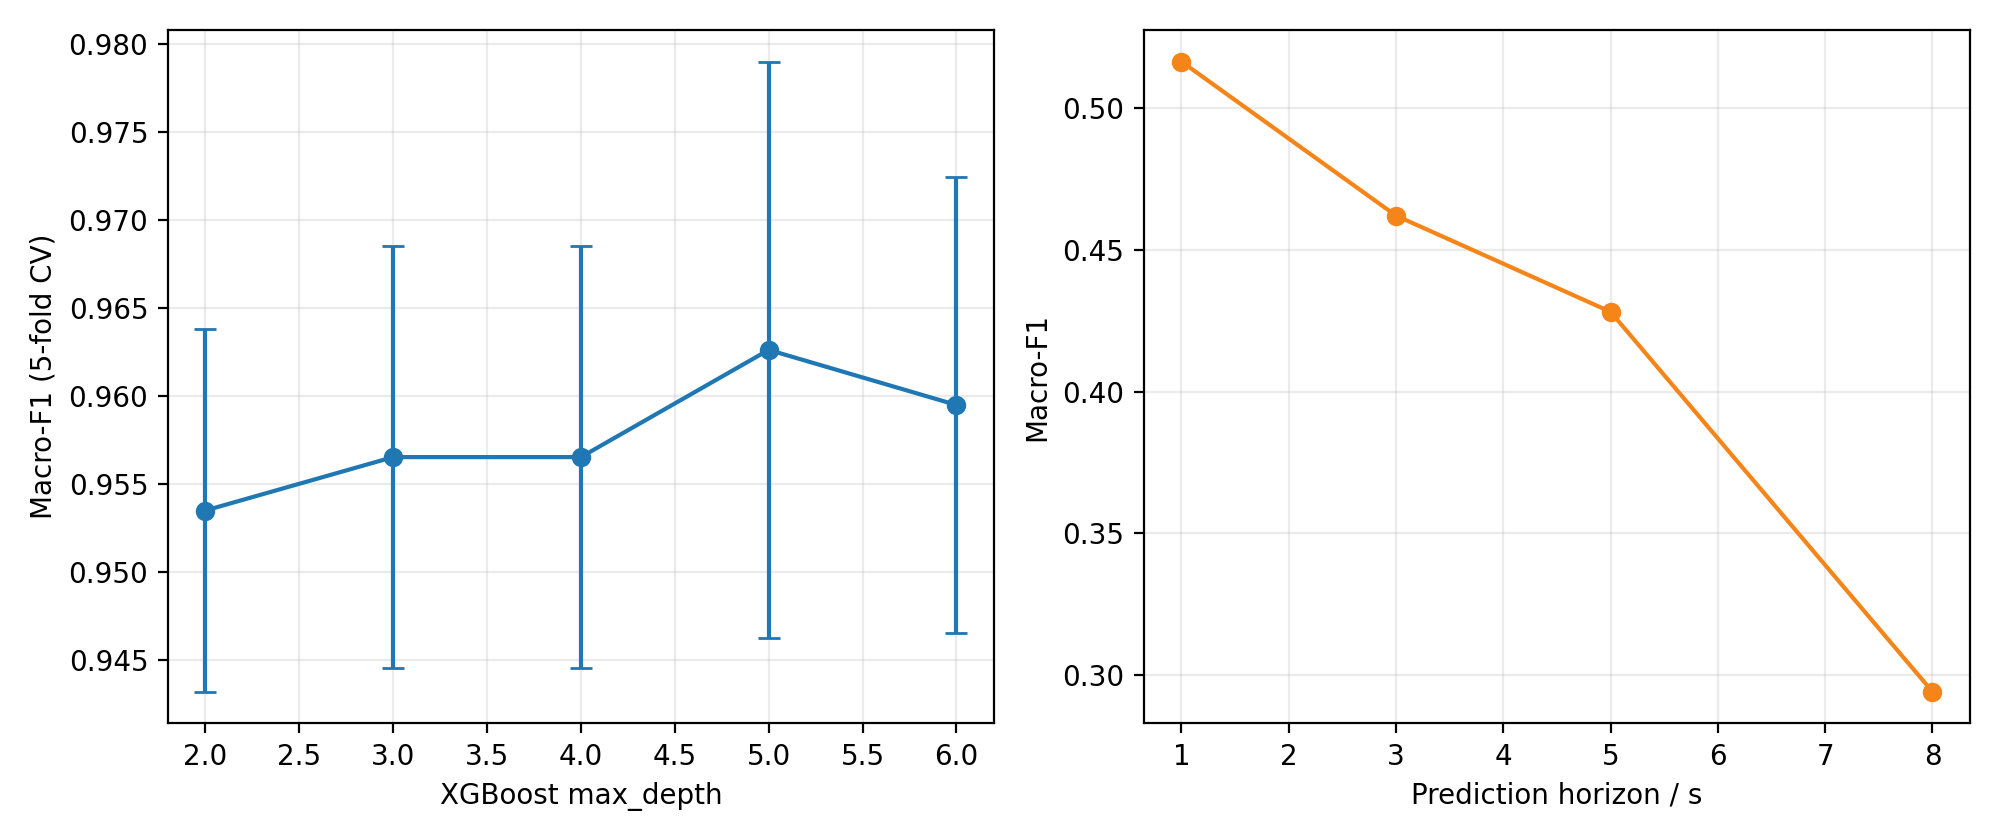
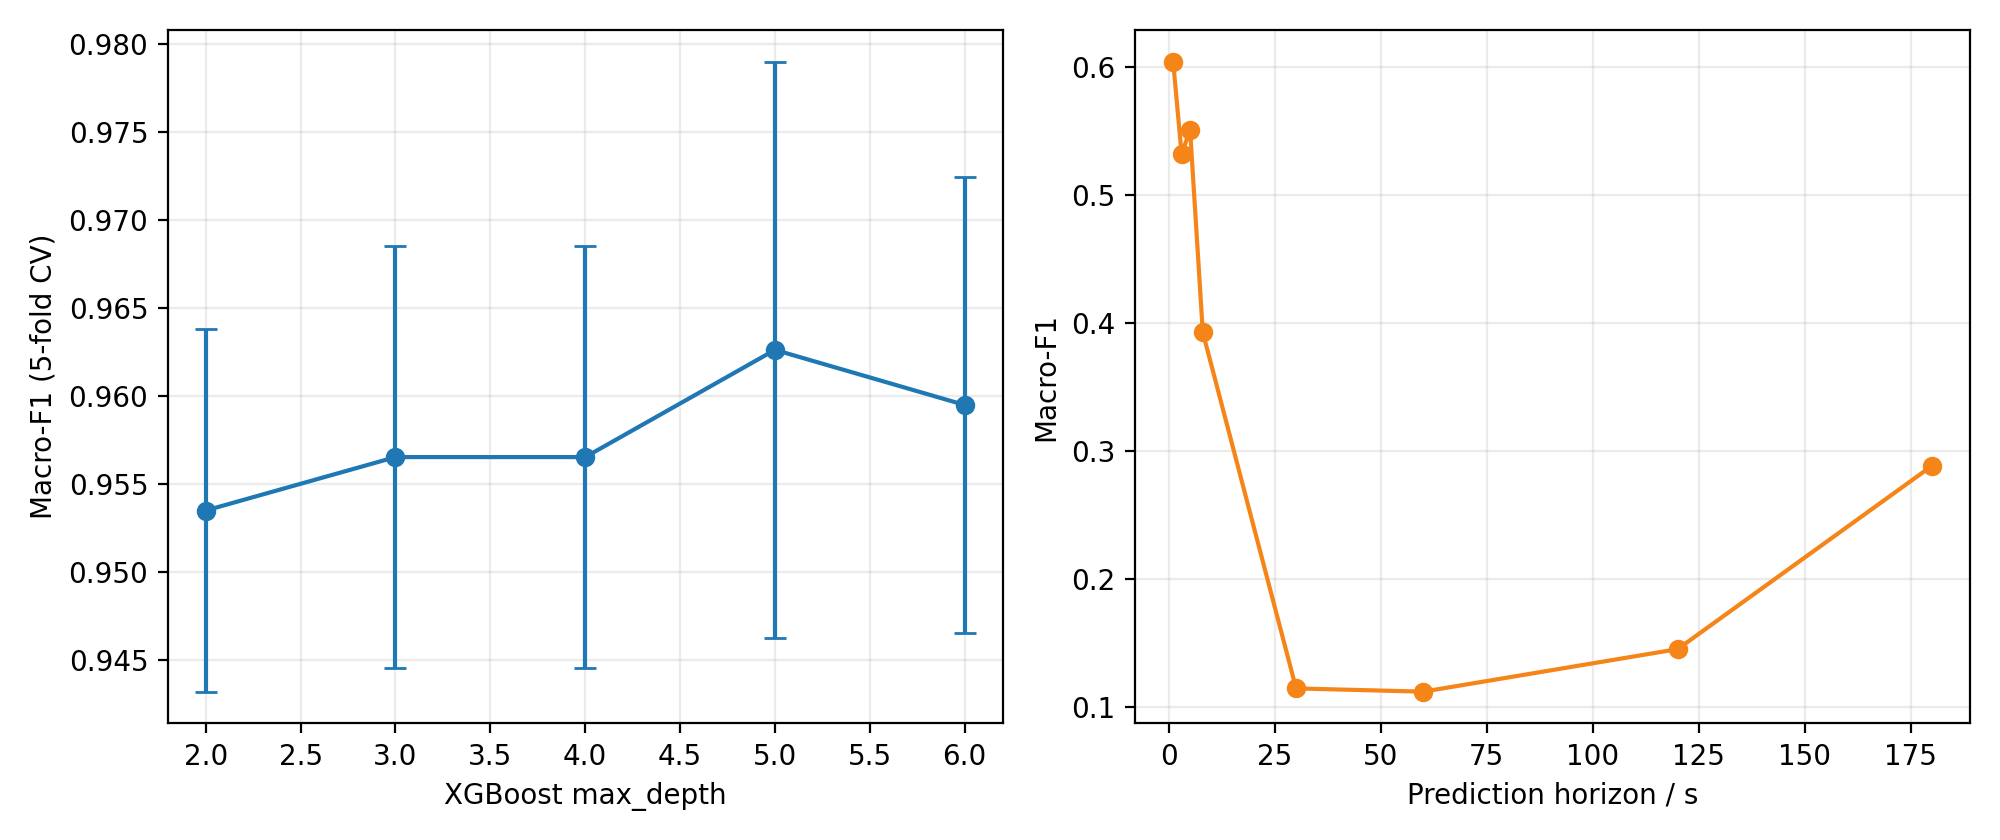
Add long-horizon prediction analysis

diff --git a/src/ute_pipeline/reporting.py b/src/ute_pipeline/reporting.py
@@ -519,8 +519,9 @@ def plot_sensitivity(results: dict, out_path: Path) -> None:
     depths = [item["max_depth"] for item in results["max_depth"]]
     f1_depth = [item["metrics"]["f1_macro"] for item in results["max_depth"]]
     f1_depth_std = [item["metrics"].get("f1_macro_std", 0.0) for item in results["max_depth"]]
-    horizons = [item["horizon_seconds"] for item in results["prediction_horizon"]]
-    f1_horizon = [item["metrics"]["f1_macro"] for item in results["prediction_horizon"]]
+    completed_horizons = [item for item in results["prediction_horizon"] if item.get("status", "completed") == "completed" and "metrics" in item]
+    horizons = [item["horizon_seconds"] for item in completed_horizons]
+    f1_horizon = [item["metrics"]["f1_macro"] for item in completed_horizons]
     fig, axes = plt.subplots(1, 2, figsize=(10, 4.2))
     axes[0].errorbar(depths, f1_depth, yerr=f1_depth_std, marker="o", capsize=4)
     axes[0].set_xlabel("XGBoost max_depth")
@@ -1050,7 +1051,7 @@ def write_report(root: Path) -> None:
         "",
         "主要评价采用分层随机划分（stratified split），确保训练集和测试集各类别比例一致。消融实验和参数敏感性分析使用 5 折分层交叉验证（stratified 5-fold CV），以交叉验证均值作为报告指标。",
         "",
-        "为对齐近五年文献中的方法对比，本节不只比较项目内部模型，还补充交通状态识别与短时交通预测文献中常见的基线。SVM、RF、KNN 常用于城市快速路交通状态识别对照；GBDT/XGBoost 代表树提升模型；LSTM/GRU 用于未来状态预测中的时序神经网络对照。状态识别模型使用同一份 XAM-N-6 四类状态标签、同一训练/测试划分和同一评价指标；未来预测模型统一预测 3 秒后的交通状态。",
+        "为对齐近五年文献中的方法对比，本节不只比较项目内部模型，还补充交通状态识别与短时交通预测文献中常见的基线。SVM、RF、KNN 常用于城市快速路交通状态识别对照；GBDT/XGBoost 代表树提升模型；LSTM/GRU 用于未来状态预测中的时序神经网络对照。状态识别模型使用同一份 XAM-N-6 四类状态标签、同一训练/测试划分和同一评价指标；未来预测主实验统一预测 3 秒后的交通状态，长时预测作为参数敏感性补充。",
         "",
         "| 对比类别 | 本报告实现 | 近五年文献中的作用 |",
         "|---|---|---|",
@@ -1067,6 +1068,7 @@ def write_report(root: Path) -> None:
         "| CNN/LSTM 类时序预测 | Reza 等 2022 年交通状态预测研究采用 1D-CNN 与 LSTM，并讨论 LSTM/GRU 在交通状态预测中的作用 | 在未来状态预测中加入 LSTM-future，并保留 XGBoost 静态/趋势通道 |",
         "| 深度学习交通拥堵预测 | 2023 年交通拥堵预测研究总结了神经网络、SVM 与深度学习方法在拥堵预测中的应用 | 把 XGBoost、SVM、LSTM/GRU 作为未来状态预测和识别任务的对照组 |",
         "| LSTM / GRU 记忆型循环网络 | 2023 年交通量预测研究直接比较 LSTM 与 GRU 两类记忆型循环网络 | 在未来状态预测中新增 GRU-future，与 LSTM-future 同口径比较 |",
+        "| 长时交通流/速度预测 | 近年 PeMS/METR-LA 交通预测论文通常报告 15/30/60 分钟，少数工作扩展到 120 分钟 | 本数据主场景 XAM-N-6 只有约 5.5 分钟，因此只补充 30/60/120/180/300 秒可行性，不把 15/30 分钟写成主实验 |",
         "",
         "参考文献链接：",
         "",
@@ -1074,6 +1076,17 @@ def write_report(root: Path) -> None:
         "- Reza et al., Traffic State Prediction Using One-Dimensional Convolution Neural Networks and Long Short-Term Memory, Applied Sciences, 2022, <https://doi.org/10.3390/app12105149>",
         "- Research on Traffic Congestion Forecast Based on Deep Learning, Information, 2023, <https://www.mdpi.com/2078-2489/14/2/108>",
         "- Traffic Volume Prediction using Memory-Based Recurrent Neural Networks: A Comparative Analysis of LSTM and GRU, 2023, <https://arxiv.org/abs/2303.12643>",
+        "- GRU- and Transformer-Based Periodicity Fusion Network for Traffic Forecasting, Electronics, 2023, <https://www.mdpi.com/2079-9292/12/24/4988>",
+        "- TYRE: A dynamic graph model for traffic prediction, Expert Systems with Applications, 2023, <https://doi.org/10.1016/j.eswa.2022.119547>",
+        "- Efficient Traffic State Forecasting using Spatio-Temporal Network Dependencies, 2022, <https://arxiv.org/abs/2211.03033>",
+        "",
+        "长时预测文献与本项目数据的对应关系如下。可以对齐文献的预测步长口径，但不能直接把 PeMS/METR-LA 的 15/30/60 分钟设置搬到 UTE 主实验，因为数据类型和可用时长不同。",
+        "",
+        "| 文献数据集/任务 | 常见预测步长 | 数据特点 | 与本项目的处理方式 |",
+        "|---|---:|---|---|",
+        "| PeMS / PeMSD4 / PeMSD8 交通流或速度预测 | 15/30/60 分钟，部分到 120 分钟 | 固定检测器长时间序列，通常 5 分钟聚合，持续数周到数月 | 作为长时预测相关工作引用，不直接替代 UTE OBB 实验 |",
+        "| METR-LA / PEMS-BAY 交通速度预测 | 15/30/60 分钟 | 路网传感器序列，关注速度/流量连续值 | 可作为后续扩展数据集；当前没有 pixel/车辆框，无法验证 HBB→OBB 与 HF-GO |",
+        "| UTE XAM-N-6 四类状态预测 | 主实验 3 秒；补充 30/60/120/180/300 秒 | 无人机 pixel 轨迹与车辆框，主场景约 5.5 分钟 | 保留 OBB/HF-GO 创新链路，最长可靠展望期受视频长度限制 |",
         "",
         metric_table(exp["classification"]),
         "",
@@ -1152,6 +1165,8 @@ def write_report(root: Path) -> None:
             "## 1.5 未来状态预测",
             "",
             f"预测步长：{exp['prediction']['horizon_seconds']:.1f} 秒",
+            "",
+            "这里的“未来状态预测”默认是短时状态预测，即预测 3 秒后的四类交通状态。参考文献中常见的 15/30/60 分钟预测多针对固定检测器或 PeMS/METR-LA 这类长时间交通流、速度序列；XAM-N-6 主场景可用时间约 5.5 分钟，无法支撑 15/30 分钟标签。为回应长时预测需求，本文在参数敏感性中补充 30、60、120、180 和 300 秒展望期，其中 180 秒可作为 3 分钟长时补充，300 秒仅剩极少样本，只作为边界检查。",
             "",
             metric_table({k: v for k, v in exp["prediction"].items() if isinstance(v, dict) and "metrics" in v}),
             "",
@@ -1266,12 +1281,20 @@ def write_report(root: Path) -> None:
         std_str = f" ± {m.get('f1_macro_std', 0):.4f}" if m.get("f1_macro_std", 0) > 0 else ""
         lines.append(f"| XGBoost max_depth | {item['max_depth']} | {m['accuracy']:.4f} | {m['f1_macro']:.4f}{std_str} |")
     for item in exp["parameter_sensitivity"]["prediction_horizon"]:
+        if item.get("status", "completed") != "completed" or "metrics" not in item:
+            lines.append(f"| prediction horizon(s) | {item['horizon_seconds']:.1f} | - | skipped: {item.get('reason', 'insufficient data')} |")
+            continue
         m = item["metrics"]
-        lines.append(f"| prediction horizon(s) | {item['horizon_seconds']:.1f} | {m['accuracy']:.4f} | {m['f1_macro']:.4f} |")
+        sample_note = f"（train/test={item.get('train_windows', '-')}/{item.get('test_windows', '-')}）"
+        lines.append(f"| prediction horizon(s) | {item['horizon_seconds']:.1f} | {m['accuracy']:.4f} | {m['f1_macro']:.4f} {sample_note} |")
     lines.extend(
         [
             "",
             "![参数敏感性](../outputs/figures/parameter_sensitivity.png)",
+            "",
+            "预测步长敏感性采用同一条 XAM-N-6 时间序列重新构造目标标签。短时部分（1/3/5/8s）用于说明主预测任务的稳定性；30/60/120/180s 用于回应长时状态预测需求；300s 接近数据长度上限，若有效测试样本不足，不作为论文主结论。与常见 15/30/60 分钟交通流预测不同，这里预测的是无人机片段内的四类状态，能够报告的最长可靠展望期受原始视频时长限制。",
+            "",
+            "如果导师要求与长时交通预测论文完全同口径对比，建议把它作为扩展实验单独设计：数据集选 PeMSD4/PeMSD8、METR-LA 或 PEMS-BAY，预测对象改为速度/流量连续值，展望期设为 15/30/60 分钟，并加入 HA、ARIMA、SVR、LSTM、GRU、DCRNN、STGCN、GraphWaveNet、TYRE 等文献基线。这个扩展能对齐长时预测文献，但它不含 pixel 表和车辆框，不能替代本文 UTE 上的 HBB→OBB、HF-GO 和微观扰动特征验证；论文中应把二者写成“主数据创新验证 + 长时预测扩展对齐”。",
             "",
             "## 1.8 多随机种子稳健性检验",
             "",

diff --git a/src/ute_pipeline/experiments.py b/src/ute_pipeline/experiments.py
@@ -1181,25 +1181,71 @@ def run_parameter_sensitivity(table: FeatureTable, cfg: dict) -> dict[str, objec
 
     horizon_results = []
     x = table.x_obb[idx]
-    split = int(round(x.shape[0] * (1.0 - test_ratio)))
-    x_train_raw = x[:split]
-    x_test_raw = x[split:]
-    _, _, mean, std = standardize(x_train_raw, x_test_raw)
-    x_scaled = (x - mean) / std
-    for horizon in [1, 3, 5, 8]:
+    step_s = float(cfg["feature"]["step_s"])
+    min_train_windows = 40
+    min_test_windows = 8
+    horizons_s = cfg["feature"].get("prediction_sensitivity_horizons_s", [1, 3, 5, 8, 30, 60, 120, 180, 300])
+    for horizon_s in horizons_s:
+        horizon = max(1, int(round(float(horizon_s) / step_s)))
         valid_end = x.shape[0] - horizon
-        train_end = min(split, valid_end)
-        test_positions = np.arange(split, valid_end)
-        if test_positions.size < 5:
+        horizon_seconds = float(horizon * step_s)
+        base_row = {
+            "horizon_steps": int(horizon),
+            "horizon_seconds": horizon_seconds,
+            "valid_positions": int(max(0, valid_end)),
+        }
+        if valid_end < min_train_windows + min_test_windows:
+            horizon_results.append(
+                {
+                    **base_row,
+                    "status": "skipped",
+                    "reason": "valid_positions_less_than_minimum_train_test",
+                    "min_train_windows": min_train_windows,
+                    "min_test_windows": min_test_windows,
+                }
+            )
             continue
+
+        split_h = int(round(valid_end * (1.0 - test_ratio)))
+        split_h = max(min_train_windows, min(split_h, valid_end - min_test_windows))
+        train_positions = np.arange(0, split_h)
+        test_positions = np.arange(split_h, valid_end)
+        train_y = y_main[train_positions + horizon]
+        test_y = y_main[test_positions + horizon]
+        if np.unique(train_y).size < 2 or np.unique(test_y).size < 2:
+            horizon_results.append(
+                {
+                    **base_row,
+                    "status": "skipped",
+                    "reason": "insufficient_class_diversity",
+                    "train_windows": int(train_positions.size),
+                    "test_windows": int(test_positions.size),
+                    "train_support": np.bincount(train_y, minlength=n_states).astype(int).tolist(),
+                    "test_support": np.bincount(test_y, minlength=n_states).astype(int).tolist(),
+                }
+            )
+            continue
+
+        x_train, x_test, _, _ = standardize(x[train_positions], x[test_positions])
         model = xgb_model(seed, cfg["experiment"]["xgboost"], n_states)
-        fit_xgb_multiclass(model, x_scaled[:train_end], y_main[horizon : train_end + horizon], n_states)
-        pred = class_predictions(model.predict(x_scaled[test_positions]))
+        fit_xgb_multiclass(
+            model,
+            x_train,
+            train_y,
+            n_states,
+            sample_weight=compute_sample_weights(train_y, n_states),
+        )
+        pred = class_predictions(model.predict(x_test))
         horizon_results.append(
             {
-                "horizon_steps": horizon,
-                "horizon_seconds": float(horizon * float(cfg["feature"]["step_s"])),
-                "metrics": metrics_dict(y_main[test_positions + horizon], pred, n_states),
+                **base_row,
+                "status": "completed",
+                "train_windows": int(train_positions.size),
+                "test_windows": int(test_positions.size),
+                "train_support": np.bincount(train_y, minlength=n_states).astype(int).tolist(),
+                "test_support": np.bincount(test_y, minlength=n_states).astype(int).tolist(),
+                "metrics": metrics_dict(test_y, pred, n_states),
+                "note": "long_horizon_supplement" if horizon_seconds >= 30 else "short_horizon_main_sensitivity",
             }
         )
     return {"max_depth": depth_results, "prediction_horizon": horizon_results}

diff --git a/docs/reproduction_guide.md b/docs/reproduction_guide.md
@@ -156,7 +156,7 @@ data_check/PKDD/PKDD-8/sample video.mp4
 | 当前状态识别 | XAM-N-6 | 70% 训练、30% 测试，按四类状态分层随机划分 |
 | 近五年文献方法对比 | XAM-N-6 | 与当前状态识别共用同一分层划分，补充 SVM/RF/KNN/GBDT/XGBoost 等基线 |
 | 消融实验 | XAM-N-6 | 5 折分层交叉验证 |
-| 参数敏感性 | XAM-N-6 | 5 折交叉验证 |
+| 参数敏感性 | XAM-N-6 | 5 折交叉验证；预测步长补充 1/3/5/8/30/60/120/180/300 秒 |
 | 未来状态预测 | XAM-N-6 | 按时间顺序前 70% 训练、后 30% 测试，默认预测 3 秒后状态 |
 | LSTM/Fusion | XAM-N-6 | 训练段后 20% 作为验证段，用于融合权重选择 |
 | 恶化预测 | XAM-N-6 | 连续时间分组 GroupKFold out-of-fold 评估 |
@@ -166,7 +166,10 @@ data_check/PKDD/PKDD-8/sample video.mp4
 
 - 当前状态识别用分层随机划分，目的是检验四类状态在特征空间中的可分性；时间序列划分另作为补充，专门观察未见时段泛化。
 - 近五年文献方法对比使用 SVM、RF、KNN、GBDT、XGBoost、LSTM、GRU 等常见基线；状态识别基线共用同一分层划分，时序模型在未来预测任务中比较。
-- 未来状态预测必须按时间顺序训练和测试，避免把未来窗口信息泄露到训练段。
+- 未来状态预测必须按时间顺序训练和测试，避免把未来窗口信息泄露到训练段。主实验预测 3 秒后状态；长时预测在参数敏感性中补充，30/60/120/180 秒用于观察长时退化趋势，300 秒接近 XAM-N-6 视频长度上限，只作为边界检查。
+- 近年交通流/速度预测文献常报告 15/30/60 分钟，但这些工作通常基于 PeMS、METR-LA 或固定检测器长时间序列；本项目主数据 XAM-N-6 约 5.5 分钟，不能把 15/30 分钟写成可复现实验结论。
+- 如需和长时预测论文完全同口径对比，建议另建 PeMS/METR-LA 扩展实验：预测对象改为流量或速度，步长设为 15/30/60 分钟；但这类数据通常没有 pixel 表和车辆框，不能验证本项目的 HBB→OBB、HF-GO 和车辆微观扰动特征。
+- 扩展实验可使用 PeMSD4/PeMSD8、METR-LA 或 PEMS-BAY，模型基线建议包含 HA、ARIMA、SVR、LSTM、GRU、DCRNN、STGCN、GraphWaveNet、TYRE 等；这属于“长时交通流/速度预测”补充，不应替代 UTE 主实验。
 - 恶化预测正样本较少，单次 70/30 切分容易把恶化事件集中切到一侧，所以改用连续时间分组 GroupKFold 的 out-of-fold 评估。
 - LSTM 使用低维 V+D+F 时序通道，减少 324 个窗口小样本下的过拟合；XGBoost 使用完整 OBB/HF-GO/MGTI 特征，承担高维非线性判别。
 
